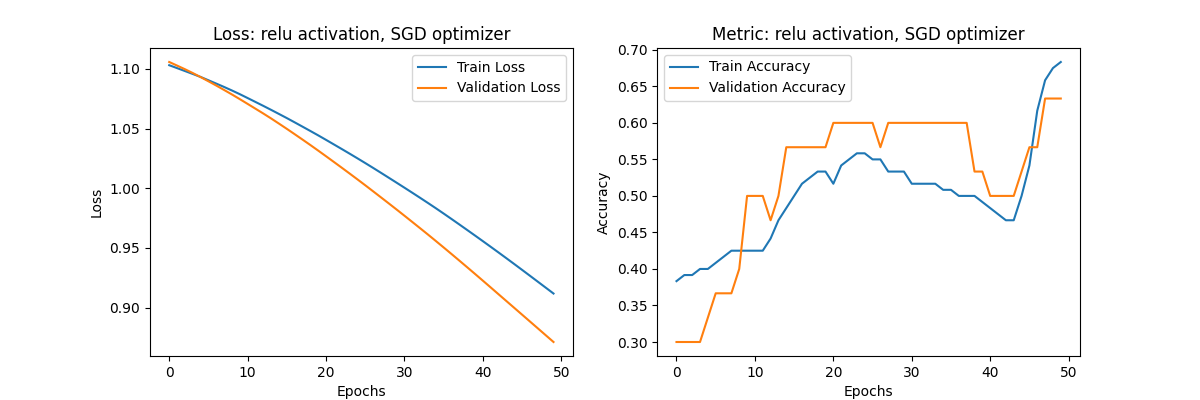
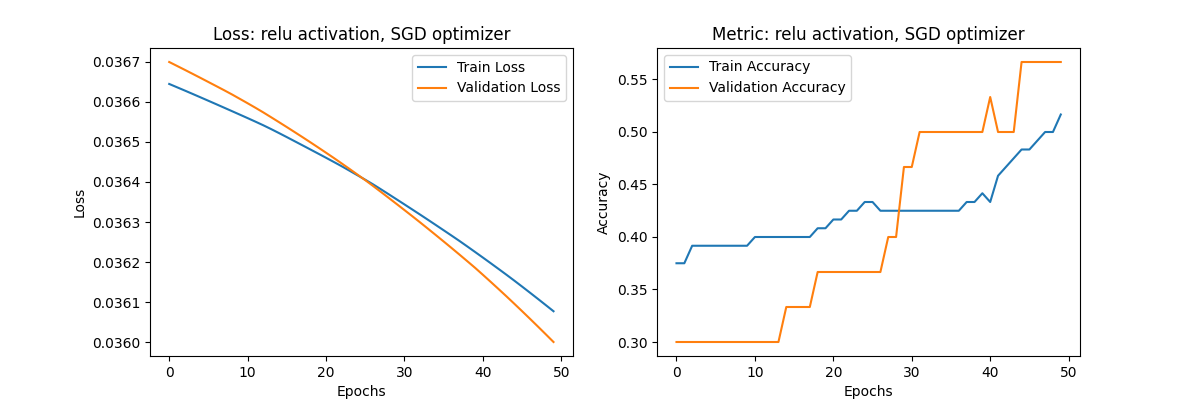
HW6Part2: Updated is_classification function to check for softmax. Removed the multiplication of loss by the len(x)

diff --git a/HW6Part2/torch_dnn.py b/HW6Part2/torch_dnn.py
@@ -85,6 +85,7 @@ def make_classification_model(
         layers.append(get_activation(activation))
 
     layers.append(torch.nn.Linear(n_neurons, n_classes))
+    layers.append(torch.nn.Softmax(dim=1))
 
     return torch.nn.Sequential(*layers)
 
@@ -120,7 +121,7 @@ def train_epoch(
         optimizer.step()
         optimizer.zero_grad()
 
-        epoch_loss += loss.item() * len(X)
+        epoch_loss += loss.item()
         if classification:
             correct += (pred.argmax(1) == y.argmax(1)).type(torch.float).sum().item()
 
@@ -161,7 +162,7 @@ def evaluate_epoch(
     with torch.no_grad():
         for X, y in test_loader:
             pred = model(X)
-            val_loss += loss_fn(pred, y).item() * len(X)
+            val_loss += loss_fn(pred, y).item()
 
             if classification:
                 correct += (pred.argmax(1) == y.argmax(1)).type(torch.float).sum().item()
@@ -189,7 +190,7 @@ def is_classification(model: torch.nn.Sequential) -> bool:
     Returns:
         bool: True if the model is for classification, False otherwise
     """
-    return model[-1].out_features > 1
+    return isinstance(model[-1], torch.nn.Softmax)
 
 
 def get_dataloaders(

diff --git a/HW6Part2/main.py b/HW6Part2/main.py
@@ -25,9 +25,9 @@ def main():
     """
     plt.switch_backend("TkAgg")
     keras.utils.set_random_seed(42)
-    frameworks = [keras_dnn, torch_dnn]
+    # frameworks = [keras_dnn, torch_dnn]
     # frameworks = [keras_dnn]
-    # frameworks = [torch_dnn]
+    frameworks = [torch_dnn]
     activations = ["relu", "tanh", "sigmoid"]
     optimizers = ["SGD", "Adam", "RMSprop"]
 
